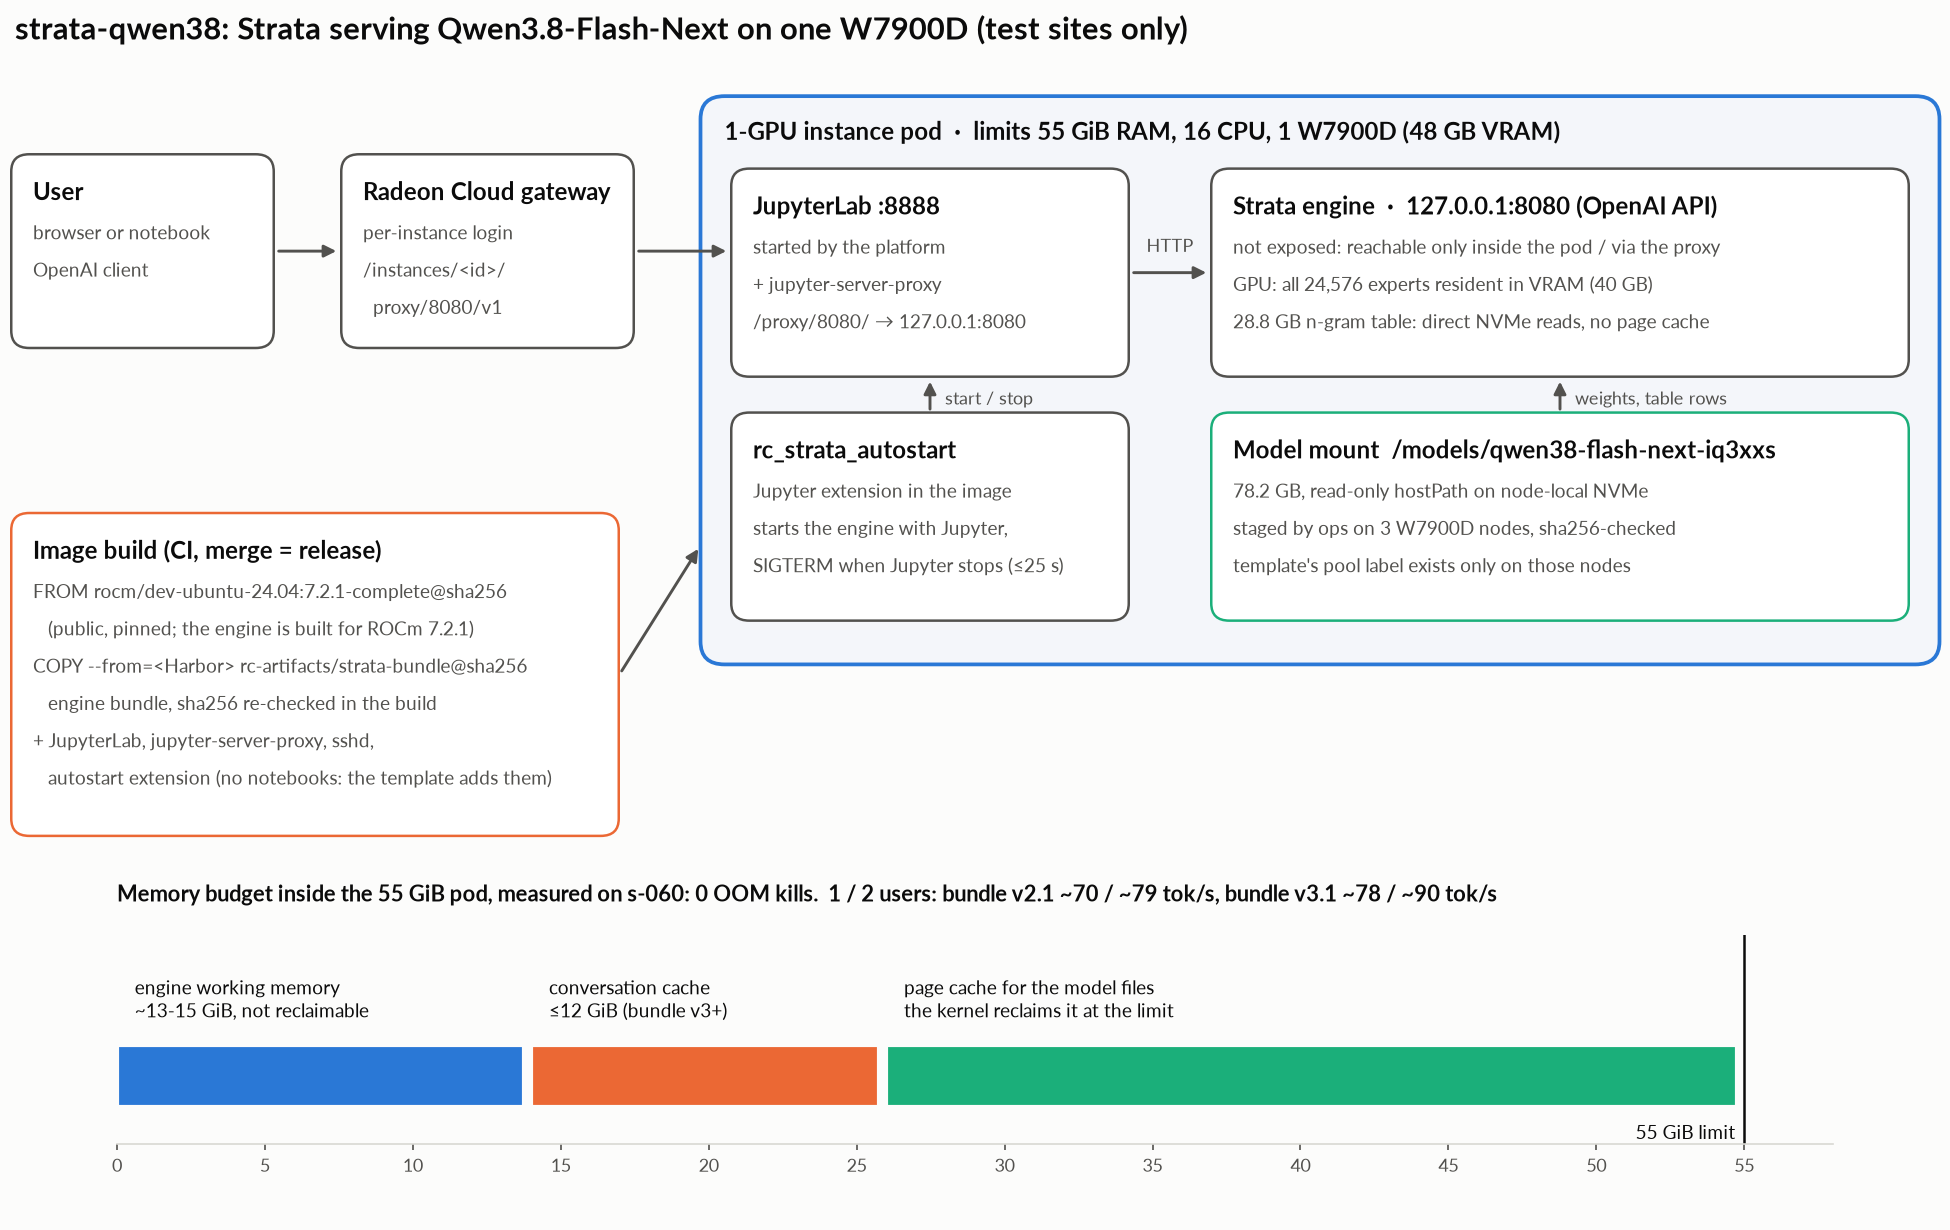
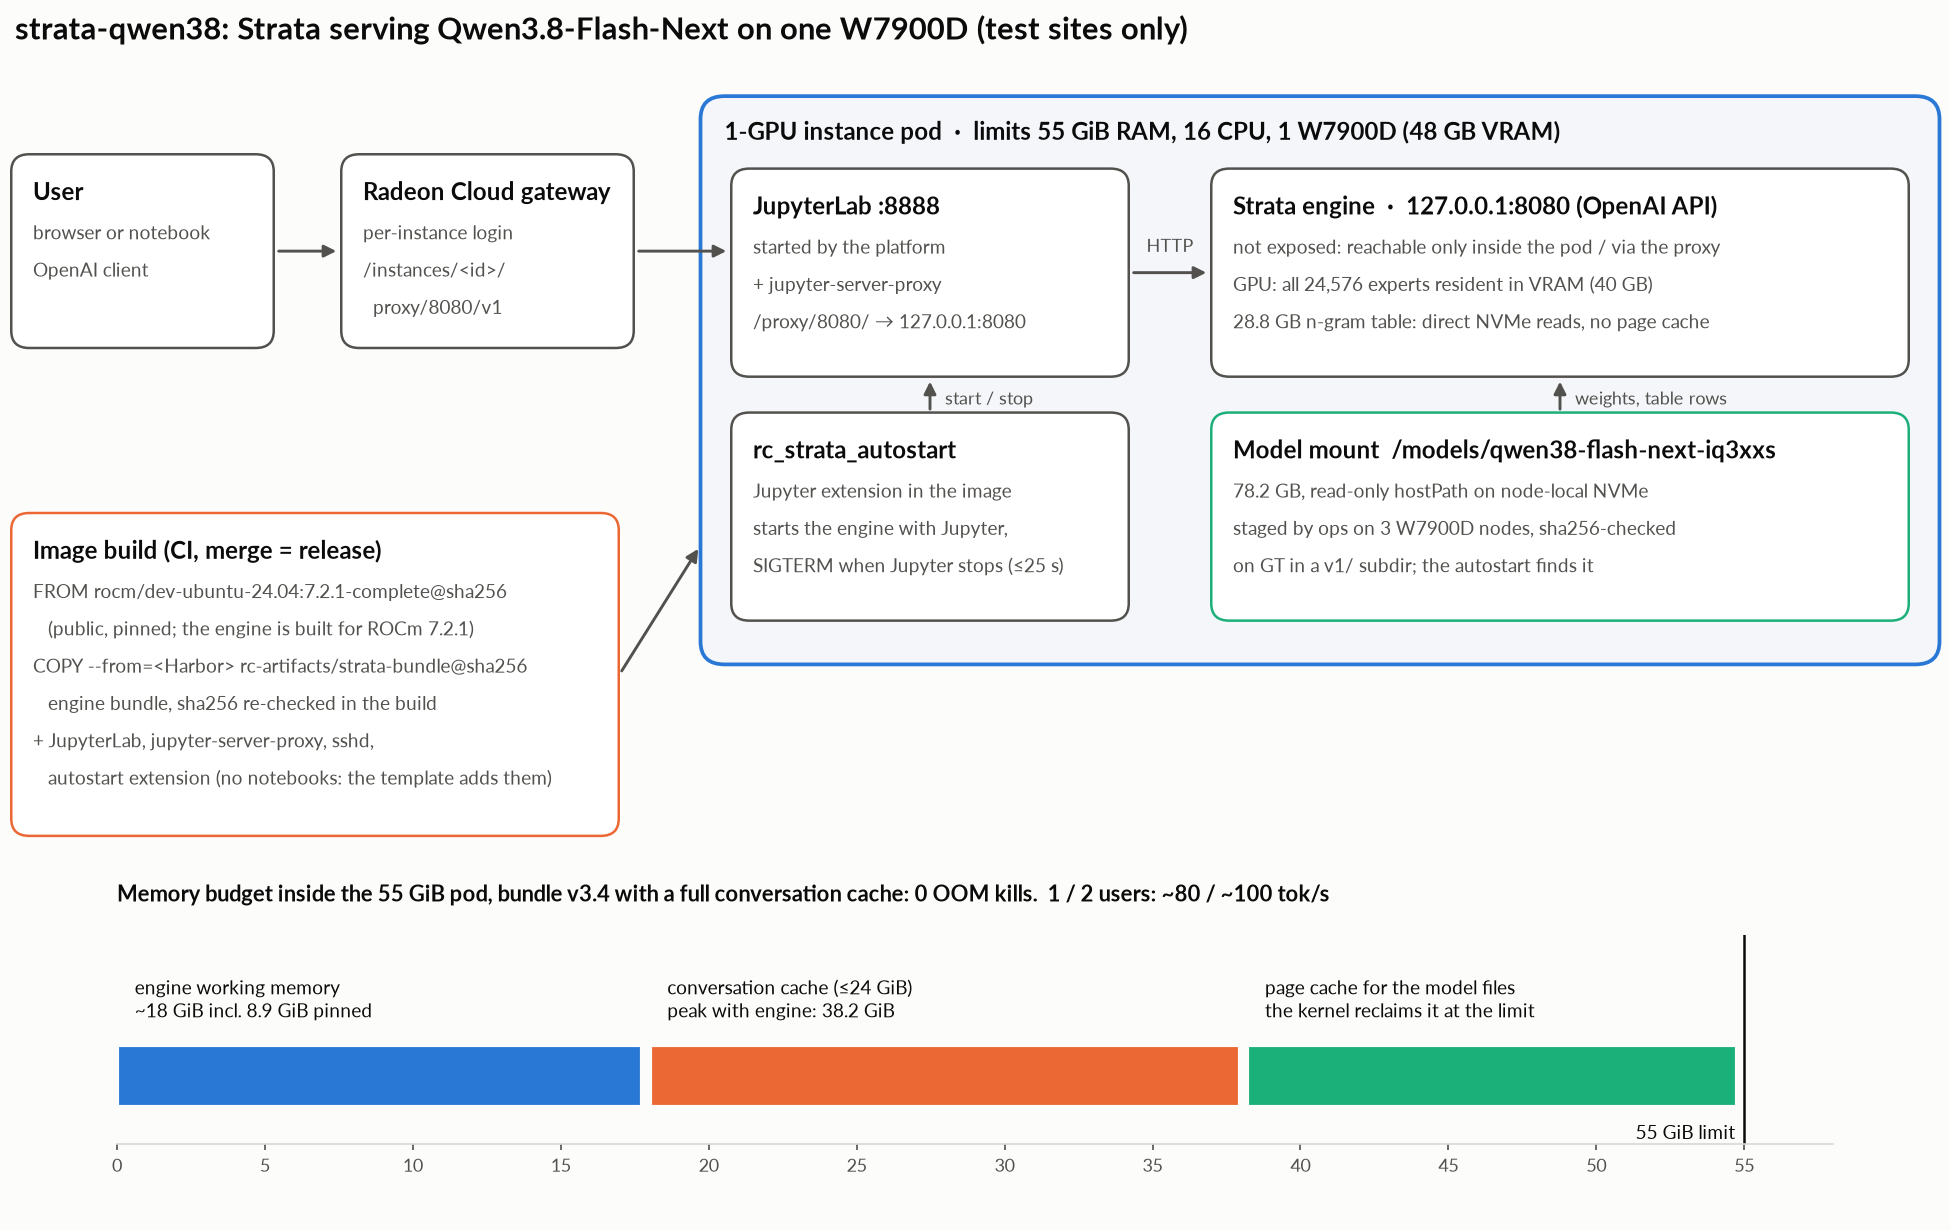
strata-qwen38: engine bundle v3.4
v3.4 = the v3.3 engine (fork tag b0-1x-v3.4, 25e143b) with thinking on by default and the model card's sampling
per mode, a 262,144-token context and a 24 GiB conversation cache. Measured in the 1-GPU 55 GiB instance shape
(11-27): peak non-reclaimable memory 38.2 GiB with the cache full, 0 OOM kills, 1 / 2 users ~80 / ~100 tok/s,
cached follow-ups 0.2-0.6 s, a cold 196k-token prompt completes. Known limit: while one request streams, a new
prompt under 16k tokens pauses it for the ~4-5 s the prompt takes to read. Diagram updated.

diff --git a/docs/design/strata_qwen38_diagram.py b/docs/design/strata_qwen38_diagram.py
@@ -47,7 +47,7 @@ box(49, 17, 26, 14, "rc_strata_autostart", ["Jupyter extension in the image", "s
 box(81, 34, 46, 14, "Strata engine  ·  127.0.0.1:8080 (OpenAI API)", ["not exposed: reachable only inside the pod / via the proxy",
     "GPU: all 24,576 experts resident in VRAM (40 GB)", "28.8 GB n-gram table: direct NVMe reads, no page cache"])
 box(81, 17, 46, 14, "Model mount  /models/qwen38-flash-next-iq3xxs", ["78.2 GB, read-only hostPath on node-local NVMe",
-    "staged by ops on 3 W7900D nodes, sha256-checked", "template's pool label exists only on those nodes"], edge=AQUA)
+    "staged by ops on 3 W7900D nodes, sha256-checked", "on GT in a v1/ subdir; the autostart finds it"], edge=AQUA)
 arrow(42.3, 42.5, 48.7, 42.5)
 arrow(75.3, 41, 80.7, 41, "HTTP")
 arrow(62, 31.2, 62, 33.7, "", style="-|>")
@@ -65,11 +65,11 @@ box(1, 2, 40, 22, "Image build (CI, merge = release)", [
     "   autostart extension (no notebooks: the template adds them)"], edge=ORANGE)
 arrow(41.3, 13, 46.7, 22)
 
-# Memory budget (measured in the instance shape, s-060, 11-26)
+# Memory budget (measured in the instance shape, bundle v3.4, s-055/s-056, 11-27)
 bx = fig.add_axes([0.06, 0.07, 0.88, 0.17]); bx.set_facecolor(SURFACE)
-segs = [("engine working memory\n~13-15 GiB, not reclaimable", 14.0, BLUE),
-        ("conversation cache\n≤12 GiB (bundle v3+)", 12.0, ORANGE),
-        ("page cache for the model files\nthe kernel reclaims it at the limit", 55.0 - 26.0, AQUA)]
+segs = [("engine working memory\n~18 GiB incl. 8.9 GiB pinned", 18.0, BLUE),
+        ("conversation cache (≤24 GiB)\npeak with engine: 38.2 GiB", 20.2, ORANGE),
+        ("page cache for the model files\nthe kernel reclaims it at the limit", 55.0 - 38.2, AQUA)]
 left = 0
 for label, w, c in segs:
     bx.barh(0, w - 0.25, left=left, height=0.55, color=c, edgecolor=SURFACE, linewidth=2)
@@ -81,7 +81,7 @@ bx.set_xticks(range(0, 56, 5)); bx.tick_params(axis="x", colors=INK2, labelsize=
 for s in ("top", "right", "left"):
     bx.spines[s].set_visible(False)
 bx.spines["bottom"].set_color(GRID)
-bx.set_title("Memory budget inside the 55 GiB pod, measured on s-060: 0 OOM kills.  1 / 2 users: bundle v2.1 ~70 / ~79 tok/s, bundle v3.1 ~78 / ~90 tok/s",
+bx.set_title("Memory budget inside the 55 GiB pod, bundle v3.4 with a full conversation cache: 0 OOM kills.  1 / 2 users: ~80 / ~100 tok/s",
              fontsize=10.5, color=INK, loc="left", pad=16, fontweight="bold")
 fig.savefig(sys.argv[1], facecolor=SURFACE)
 print("wrote", sys.argv[1])
